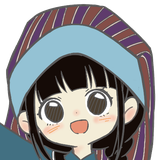
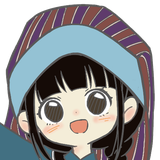
feat: 阿蓝做成三层切片动画，会呼吸、眨眼、点头、对口型
原来是一张静止 PNG，确实像贴纸。改成底图 + 眨眼层 + 闭口层三层叠加：
覆盖层与底图同一坐标系、同一位置，只在不透明像素处替换，因此不会有分层
旋转那种露底接缝。肤色取眼间与唇上实测的 rgb(244,237,216)，睫毛线取眼部
描边的深色。

动效：待机呼吸（scaleY 1→1.014）、说话点头 + 口型层 0.34s 开合、思考左右
微晃、眨眼每 5.4s 一次约 110ms。全部纳入 prefers-reduced-motion。
Avatar.talking/thinking 这两个既有状态钩子第一次真正有了表现。

顺带修掉三个自己埋的问题：
1. build_avatar.py 的源图路径在目录重构时挪走却没跟着改，脚本已经跑不起来；
   测试只校验产物存在，查不出来。
2. 追加的函数写在 if __name__ 守卫之后，调用时未定义。
3. 眨眼/口型层生成在 651x1142 画布上，底图存成 520x912，五官坐标是按 520
   量的——浏览器用 object-fit:contain 叠三层时内容缩小 0.799 并偏左上，
   眨眼会盖错位置。现在所有层强制共用同一张画布，并加了断言锁住尺寸与对齐。

另外路由首屏用 location.replace 补 #/chat 会中止正在加载的文档
（net::ERR_ABORTED Document），等于多刷一次；改成无 hash 时只应用默认视图、
不改写地址栏。测试从 86 项增至 92 项。

diff --git a/css/style.css b/css/style.css
@@ -136,7 +136,25 @@ input { font-family: inherit; }
   flex-shrink: 0;
 }
 
-.avatar { width: 100%; height: 100%; object-fit: contain; display: block; }
+/* 阿蓝是一套切片动画：底图 + 眨眼层 + 闭口层，三层同一坐标系完全重合，
+   所以只在不透明像素处替换，不会出现分层旋转时的那种接缝。 */
+.avatar-stage {
+  position: absolute;
+  inset: 0;
+  transform-origin: 50% 100%;
+  animation: avatarBreathe 3.8s ease-in-out infinite;
+}
+
+.avatar, .avatar-blink, .avatar-mouth {
+  position: absolute;
+  inset: 0;
+  width: 100%; height: 100%;
+  object-fit: contain;
+  display: block;
+  pointer-events: none;
+}
+.avatar-blink, .avatar-mouth { opacity: 0; }
+.avatar-blink { animation: avatarBlink 5.4s infinite; }
 
 .avatar-ring {
   position: absolute;
@@ -147,19 +165,35 @@ input { font-family: inherit; }
   border-radius: 50%;
 }
 
-/* 阿蓝状态：说话时轻轻点头，思考时微微摇晃 */
-.avatar-wrap.is-talking .avatar { animation: avatarTalk 0.85s ease-in-out infinite; }
-.avatar-wrap.is-thinking .avatar { animation: avatarThink 2.2s ease-in-out infinite; }
+/* 说话：点头 + 口型开合；思考：左右微晃 */
+.avatar-wrap.is-talking .avatar-stage { animation: avatarTalk 0.9s ease-in-out infinite; }
+.avatar-wrap.is-thinking .avatar-stage { animation: avatarThink 2.4s ease-in-out infinite; }
+.avatar-wrap.is-talking .avatar-mouth { animation: avatarMouth 0.34s steps(1, end) infinite; }
 .avatar-wrap.is-talking .avatar-ring,
-.avatar-wrap.is-thinking .avatar-ring { animation: avatarShadow 0.85s ease-in-out infinite; }
+.avatar-wrap.is-thinking .avatar-ring { animation: avatarShadow 0.9s ease-in-out infinite; }
+
+@keyframes avatarBreathe {
+  0%, 100% { transform: translateY(0) scaleY(1); }
+  50% { transform: translateY(-1px) scaleY(1.014); }
+}
 @keyframes avatarTalk {
   0%, 100% { transform: translateY(0) rotate(0deg); }
-  50% { transform: translateY(-3px) rotate(-1.2deg); }
+  40% { transform: translateY(-2px) rotate(-1.6deg); }
+  75% { transform: translateY(-1px) rotate(0.7deg); }
 }
 @keyframes avatarThink {
   0%, 100% { transform: translateY(0) rotate(0deg); }
-  35% { transform: translateY(-1px) rotate(2deg); }
-  70% { transform: translateY(-1px) rotate(-2deg); }
+  30% { transform: translateY(-1px) rotate(2.4deg); }
+  65% { transform: translateY(-1px) rotate(-1.8deg); }
+}
+@keyframes avatarBlink {
+  0%, 90%, 97%, 100% { opacity: 0; }
+  92.5%, 94.5% { opacity: 1; }
+}
+@keyframes avatarMouth {
+  0% { opacity: 1; }
+  50% { opacity: 0; }
+  100% { opacity: 1; }
 }
 @keyframes avatarShadow {
   0%, 100% { transform: translateX(-50%) scaleX(1); opacity: 1; }
@@ -652,6 +686,8 @@ input { font-family: inherit; }
 @media (prefers-reduced-motion: reduce) {
   .msg, .tab-panel.active, .modal-mask, .modal-card { animation: none; }
   .typing-cursor, .thinking-dots span { animation: none; }
-  .avatar-wrap.is-talking .avatar, .avatar-wrap.is-thinking .avatar,
+  .avatar-stage, .avatar-blink, .avatar-mouth,
+  .avatar-wrap.is-talking .avatar-stage, .avatar-wrap.is-thinking .avatar-stage,
+  .avatar-wrap.is-talking .avatar-mouth,
   .avatar-wrap.is-talking .avatar-ring, .avatar-wrap.is-thinking .avatar-ring { animation: none; }
 }

diff --git a/index.html b/index.html
@@ -26,7 +26,11 @@
       <!-- 虚拟形象 + 欢迎 -->
       <section class="hero">
         <div class="avatar-wrap" id="avatarWrap">
-          <img class="avatar" src="assets/avatar/alan-full.png" alt="虚拟讲解员阿蓝" width="520" height="912">
+          <div class="avatar-stage">
+            <img class="avatar" src="assets/avatar/alan-full.png" alt="虚拟讲解员阿蓝" width="520" height="912">
+            <img class="avatar-blink" src="assets/avatar/alan-blink.png" alt="" aria-hidden="true" width="520" height="912">
+            <img class="avatar-mouth" src="assets/avatar/alan-mouth-closed.png" alt="" aria-hidden="true" width="520" height="912">
+          </div>
           <div class="avatar-ring"></div>
         </div>
         <div class="hero-text">

diff --git a/js/router.js b/js/router.js
@@ -23,10 +23,12 @@
     return ROUTES[h] ? h : 'chat';
   }
 
-  /** 按当前 hash 切换面板；hash 缺省时补一个，保证地址始终可分享 */
+  /** 按当前 hash 切换视图。
+   *  没有 hash 时只应用默认视图，不去改写地址栏——曾经用 location.replace
+   *  补一个 #/chat 会把正在加载的文档中止掉，等于首屏多刷一次。
+   */
   function apply() {
     var name = current();
-    if (!window.location.hash) window.location.replace('#/' + name);
     if (window.App && window.App.switchPanel) window.App.switchPanel(ROUTES[name]);
     return name;
   }

diff --git a/scripts/build_avatar.py b/scripts/build_avatar.py
@@ -8,7 +8,7 @@ import numpy as np
 import cv2
 import os
 
-SRC = "数字人形象.png"
+SRC = "assets/source/数字人形象.png"
 OUT = "assets/avatar"
 PAD = 10
 
@@ -53,7 +53,7 @@ def save(img, name, max_w=None):
     if max_w and img.width > max_w:
         img = img.resize((max_w, round(img.height * max_w / img.width)), Image.LANCZOS)
     img.save(os.path.join(OUT, name), optimize=True)
-    return img.size
+    return img
 
 
 def main():
@@ -65,28 +65,80 @@ def main():
     full = to_pil(rgb, alpha)
     print("trimmed", full.size)
 
-    sizes = {}
-    sizes["alan-full.png"] = save(full, "alan-full.png", max_w=520)
+    # Every shipped layer must share one canvas: the eye and mouth coordinates below
+    # are measured on this 520-wide image, and the browser stacks the layers with
+    # object-fit: contain, so a mismatched canvas silently offsets the features.
+    base = save(full, "alan-full.png", max_w=520)
+    sizes = {"alan-full.png": base.size}
+    w, h = base.size
 
     # Chat-bubble avatar: the head only. The raised arm widens the silhouette below
     # the brim, so measure the hat band to centre the crop on the face instead.
-    w, h = full.size
-    al = np.asarray(full)[:, :, 3]
+    al = np.asarray(base)[:, :, 3]
     hat = al[: int(h * 0.2)] > 40
     _, xs = np.nonzero(hat)
     cx = int((xs.min() + xs.max()) / 2)
     side = int((xs.max() - xs.min()) * 1.08)
     x0 = max(min(cx - side // 2, w - side), 0)
-    head = full.crop((x0, 0, x0 + side, side))
-    sizes["alan-face.png"] = save(head, "alan-face.png", max_w=160)
+    head = base.crop((x0, 0, x0 + side, side))
+    sizes["alan-face.png"] = save(head, "alan-face.png", max_w=160).size
+
+    build_expression_layers(base, OUT)
 
     # Preview over the app's paper background to expose any white halo.
     prev = Image.new("RGBA", (w + 40, h + 40), (247, 243, 235, 255))
     prev.alpha_composite(full, (20, 20))
+    # 预览写到 .cache，别落进要发布的 assets 里
+    os.makedirs(".cache", exist_ok=True)
     prev.convert("RGB").resize((prev.width // 3, prev.height // 3), Image.LANCZOS).save(
-        os.path.join(OUT, "_preview_on_paper.jpg"), quality=88
+        ".cache/avatar_preview.jpg", quality=88
     )
     print(sizes)
+
+
+
+
+# ---------------------------------------------------------------- 表情覆盖层
+# 眨眼和口型用「与原图完全重合的覆盖层」实现：覆盖层和底图同一坐标系、
+# 同一位置，只在不透明像素处替换，所以不会出现分层旋转那种接缝。
+SKIN = (244, 237, 216)        # 眼间/唇上取样得到的面部肤色
+LASH = (58, 48, 44)           # 闭合时的睫毛线颜色，取自眼部描边
+EYES = [(186, 200, 256, 278), (276, 180, 346, 258)]   # 左眼 / 右眼，含眼白描边圈
+MOUTH = (250, 250, 297, 289)
+
+
+def _lid_overlay(size, boxes, closed=True):
+    """Paint skin over each box, then a curved lash line so it reads as a shut eye."""
+    import cv2
+    w, h = size
+    img = np.zeros((h, w, 4), np.uint8)
+    for x0, y0, x1, y1 in boxes:
+        cv2.ellipse(img, ((x0 + x1) // 2, (y0 + y1) // 2),
+                    ((x1 - x0) // 2, (y1 - y0) // 2), 0, 0, 360, SKIN + (255,), -1)
+    if closed:
+        for x0, y0, x1, y1 in boxes:
+            c = ((x0 + x1) // 2, (y0 + y1) // 2)
+            ax, ay = (x1 - x0) // 2 - 3, (y1 - y0) // 2 - 5
+            cv2.ellipse(img, c, (ax, ay), 0, 25, 155, LASH + (255,), 3, cv2.LINE_AA)
+    return img
+
+
+def build_expression_layers(full, out_dir):
+    """Emit alan-blink.png and alan-mouth-closed.png aligned to alan-full.png."""
+    import cv2
+    w, h = full.size
+    blink = _lid_overlay((w, h), EYES, closed=True)
+    Image.fromarray(blink, "RGBA").save(os.path.join(out_dir, "alan-blink.png"), optimize=True)
+
+    mouth = _lid_overlay((w, h), [MOUTH], closed=False)
+    # 闭口帧：把张开的嘴盖掉，再画一条上扬的微笑线
+    x0, y0, x1, y1 = MOUTH
+    cv2.ellipse(mouth, ((x0 + x1) // 2, (y0 + y1) // 2 - 2),
+                ((x1 - x0) // 2, (y1 - y0) // 2 - 3), 0, 0, 360, SKIN + (255,), -1)
+    cv2.ellipse(mouth, ((x0 + x1) // 2, (y0 + y1) // 2 - 6),
+                ((x1 - x0) // 2 - 5, (y1 - y0) // 2 - 3), 0, 20, 160, LASH + (255,), 3, cv2.LINE_AA)
+    Image.fromarray(mouth, "RGBA").save(os.path.join(out_dir, "alan-mouth-closed.png"), optimize=True)
+    print("expression layers written")
 
 
 if __name__ == "__main__":
